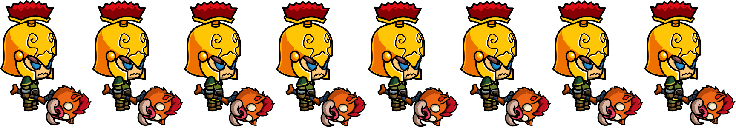
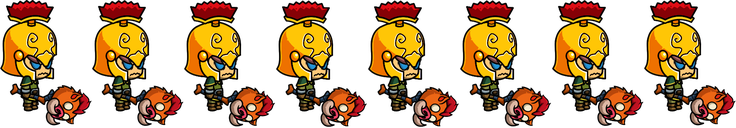
소환사 스프라이트 원본 소스시트에서 재크롭 — per-frame bbox 방식
원인: 최초 크롭 시 bbox를 잘못 잡아서 콘텐츠가 누락됨
- slash: 91→119px (무기모션+본체가 합쳐져 꽉 참)
- cast: 65→133px (2배 이상 넓어짐!)
- block: 55→89px
- walk: 103→93px (정확한 크기로 재조정)

거너/궁수와 동일한 per-frame union bbox 방식으로 재크롭

diff --git a/js/data.js b/js/data.js
@@ -1,5 +1,5 @@
 // ===== CHARACTER SVGs =====
-const SPRITE_VER='?v=5';
+const SPRITE_VER='?v=6';
 const CHAR_SVG={
 전사:{type:'sprite',frames:8,
   idle:{src:'img/warrior-idle.png',w:89,h:128,tw:712},
@@ -59,10 +59,10 @@ const CHAR_SVG={
   death:{src:'img/druid-death.png',w:137,h:128,tw:1096}},
 소환사:{type:'sprite',frames:8,
   idle:{src:'img/summoner-idle.png',w:92,h:128,tw:736},
-  walk:{src:'img/summoner-walk.png',w:103,h:128,tw:824},
-  cast:{src:'img/summoner-cast.png',w:122,h:128,tw:976},
-  slash:{src:'img/summoner-slash.png',w:144,h:128,tw:1152},
-  block:{src:'img/summoner-block.png',w:104,h:128,tw:832},
+  walk:{src:'img/summoner-walk.png',w:93,h:128,tw:744},
+  cast:{src:'img/summoner-cast.png',w:133,h:128,tw:1064},
+  slash:{src:'img/summoner-slash.png',w:119,h:128,tw:952},
+  block:{src:'img/summoner-block.png',w:89,h:128,tw:712},
   death:{src:'img/summoner-death.png',w:152,h:128,tw:1216}},
 흑마법사:{type:'sprite',frames:8,
   idle:{src:'img/black_wizard-idle.png',w:75,h:128,tw:600},

diff --git a/index.html b/index.html
@@ -203,7 +203,7 @@ gtag('config', 'G-XY7YKM0M37');
 <div class="levelup-choices" id="levelup-choices"></div>
 </div>
 
-<script src="js/data.js?v=22"></script>
+<script src="js/data.js?v=23"></script>
 <script src="js/ai.js?v=20"></script>
 <script src="js/ui.js?v=21"></script>
 <script src="js/inventory.js?v=21"></script>
